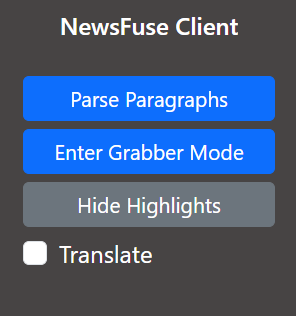
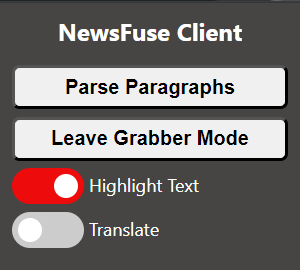
update readme

diff --git a/README.md b/README.md
@@ -74,9 +74,9 @@ The translation mode is implemented by replacing the biased sentences with their
 
 The extension has the following controls:
 
-- **Parse Paragraphs** - finds all paragraphs in the current page and parses them for biased sentences.
-- **Enter/Exit Grabber Mode** - allows to select a text on the page and parse it for biased sentences.
-- **Hide/Show Highlights** - hides/shows the highlights of biased/translated sentences.
+- **Parse Paragraphs** - finds all paragraphs in the current page and parses them for biased sentences. Using this button will work only on the first time the page is loaded, to parse the page again (e.g. in translation mode), the page has to be reloaded.
+- **Enter/Leave Grabber Mode** - allows to select a text on the page and parse it for biased sentences.
+- **Highlight Text** - hides/shows the highlights of biased/translated sentences.
 - **Translate** - changes the mode to translation mode. In this mode, the biased sentences are replaced with their unbiased counterparts.
 
 ## Limitations
@@ -96,6 +96,7 @@ The extension has the following controls:
 ### Steps
 
 1. Clone the repository
+
    ```bash
     git clone https://github.com/Tremirre/NewsFuse.git
    ```
@@ -107,6 +108,7 @@ The extension has the following controls:
     .venv\Scripts\activate
    ```
 3. Install dependencies
+
    ```bash
     pip install -r requirements.txt
    ```
@@ -114,22 +116,24 @@ The extension has the following controls:
 4. Export the environment variable `MODEL_PATH` with a path to your exported tensorflow model (a pretrained one is available [here](https://drive.google.com/file/d/1cU0Y-lWfqsXk_QwkfplDZwAtwg-vOGwQ/view?usp=sharing)).
 
    ```bash
-   export MODEL_PATH=<your-path>   
+   export MODEL_PATH=<your-path>
    ```
+
 5. Preprare environment variables for your API of choice:
 
 - For **Google Vertex AI** API - Export environment variables `API_USED` as "google", `GOOGLE_APPLICATION_CREDENTIALS` with credentials to your Vertex AI credentials JSON file and `GOOGLE_LOCATION` with the location that is to be used for the Gemini model (e.g., "europe-central2")
-   ```bash
-   export API_USED=google
-   export GOOGLE_APPLICATION_CREDENTIALS=<your-path-to-credentials>
-   export GOOGLE_LOCATION=<your-desired-location>
-   ```
+
+  ```bash
+  export API_USED=google
+  export GOOGLE_APPLICATION_CREDENTIALS=<your-path-to-credentials>
+  export GOOGLE_LOCATION=<your-desired-location>
+  ```
 
 - For **OpenAI** API - Export the environment variables `API_USED` as "openai" and `OPENAI_API_KEY` with your api key.
-   ```bash
-   export API_USED=openai
-   export OPENAI_API_KEY=<your-api-key>
-   ```
+  ```bash
+  export API_USED=openai
+  export OPENAI_API_KEY=<your-api-key>
+  ```
 
 6. Run the FastAPI application
 
@@ -137,7 +141,7 @@ The extension has the following controls:
    uvicorn app:app
    ```
 
-5. Add the extension to Chrome
+7. Add the extension to Chrome
 
    - Open Chrome
    - Go to `chrome://extensions/`
@@ -145,6 +149,6 @@ The extension has the following controls:
    - Click `Load unpacked`
    - Select `NewsFuse/newsfuse-ext` folder
 
-6. Open any news article and click `Parse Paragraphs` button
+8. Open any news article and click `Parse Paragraphs` button
 
-7. Enjoy!
+9. Enjoy!
